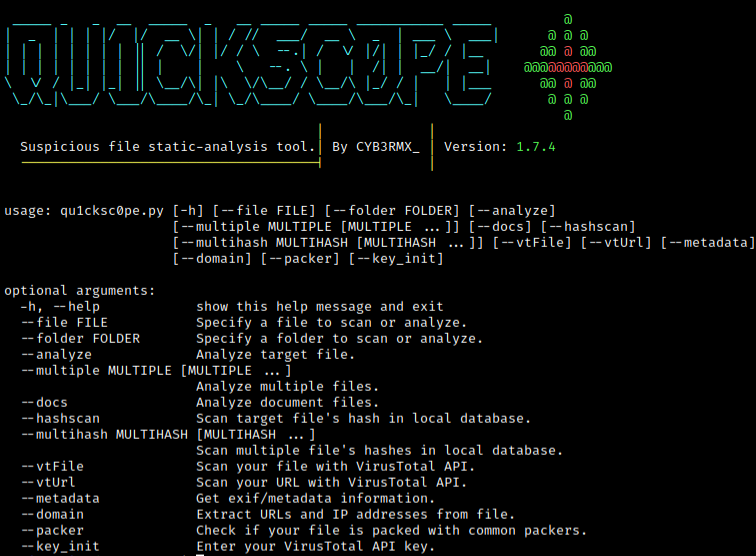
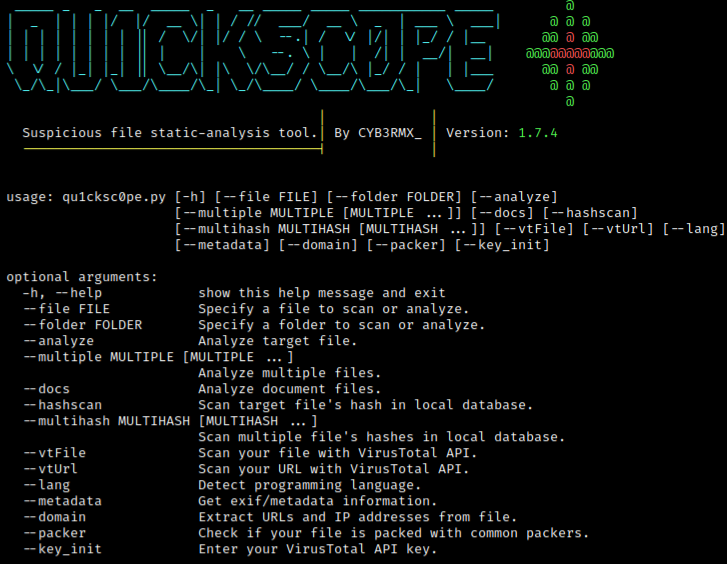
README Updated.

Changed region(s): [[0.0, 0.3363, 0.9986, 1.0], [0.0, 0.0, 0.8473, 0.3058]]

diff --git a/README.md b/README.md
@@ -8,7 +8,7 @@
 - URL's, IP addresses and emails.
 - Android permissions.
 - File extensions and their names.
-<b>And so on...</b><br>
+<br><b>And so on...</b><br>
 
 Qu1cksc0pe aims to get even more information about suspicious files and helps to user realizing what that file capable of.
 
@@ -21,6 +21,7 @@ Qu1cksc0pe aims to get even more information about suspicious files and helps to
 # Updates
 <b>12/02/2021</b>
 - [X] Added ```Language Detection``` module. Now Qu1cksc0pe can detect which programming language used on target binaries.
+- <b>Usage</b>: ```python3 qu1cksc0pe.py --file suspicious_file --lang```
 
 # Note
 - [X] You can also use Qu1cksc0pe from ```Windows Subsystem Linux``` in Windows 10.
